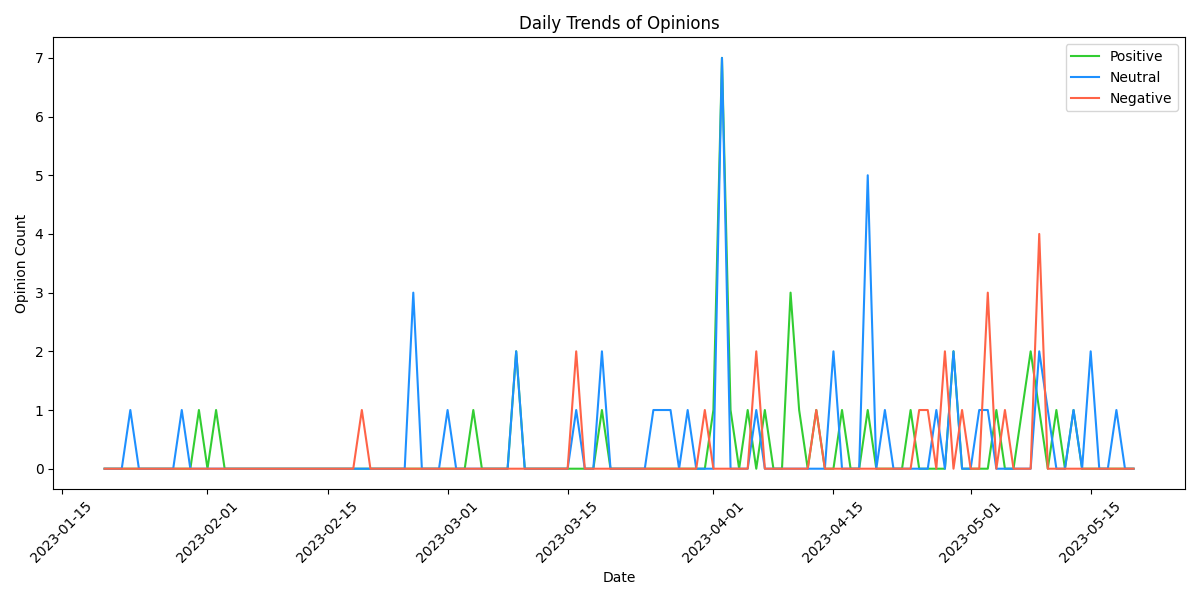
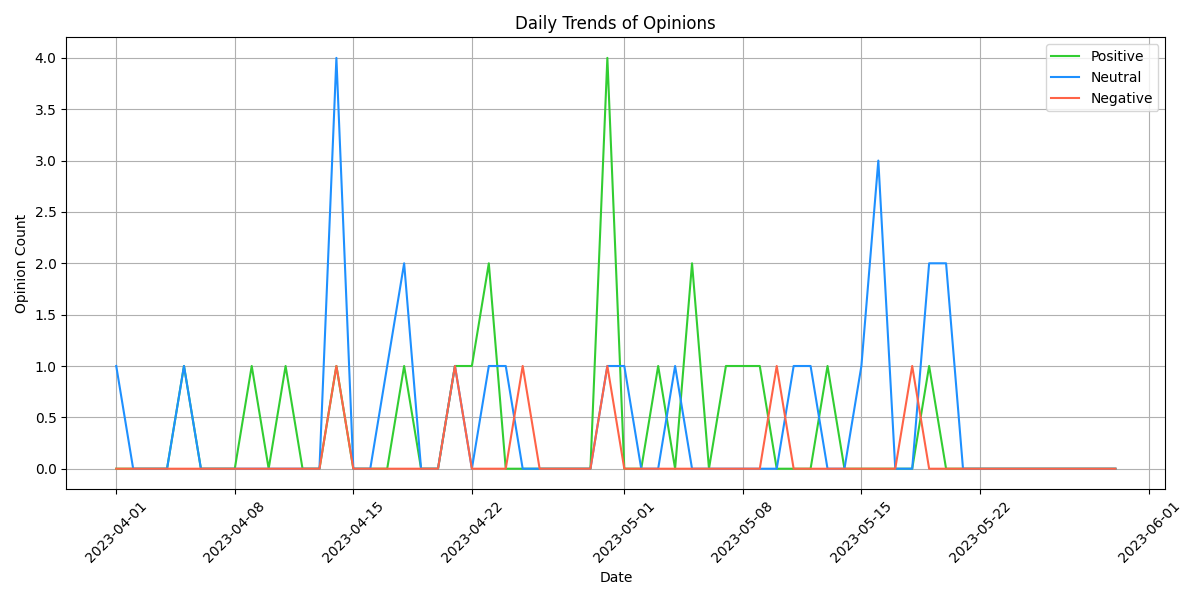
add wordcloud and english filter

diff --git a/opinionminer/templates/opinionminer/opinions.html b/opinionminer/templates/opinionminer/opinions.html
@@ -3,16 +3,18 @@
 {% load static %}
 
 {% block body_content %}
-    <nav class="navbar navbar-expand-lg navbar-light bg-light">
+    <body class="white-background" style="background-color: white; background-image: none">
+<!-- Navbar -->
+     <nav class="navbar navbar-expand-lg navbar-light bg-gradient-info">
         <div class="container-fluid">
-            <a class="navbar-brand" href="{% url 'home' %}">Opinion Miner</a>
+            <a class="navbar-brand" href="/">👁 Opinion Miner</a>
             <button class="navbar-toggler" type="button" data-bs-toggle="collapse" data-bs-target="#navbarNav" aria-controls="navbarNav" aria-expanded="false" aria-label="Toggle navigation">
                 <span class="navbar-toggler-icon"></span>
             </button>
             <div class="collapse navbar-collapse" id="navbarNav">
                 <ul class="navbar-nav">
                     <li class="nav-item">
-                        <a class="nav-link" href="{% url 'home' %}">Home</a>
+                        <a class="nav-link" href="#">Home</a>
                     </li>
                     <li class="nav-item">
                         <a class="nav-link" href="#">About</a>
@@ -31,19 +33,48 @@
                     <input type="text" name="query" id="query" class="form-control me-2" placeholder="Enter a query" required value="{{ topic }}">
                     <input type="date" name="start_date" id="start_date" class="form-control me-2" required>
                     <input type="date" name="end_date" id="end_date" class="form-control me-2" required>
-                    <button type="submit" class="btn btn-primary">Search</button>
+                    <button type="submit" class="btn btn-primary">Search</button>
                 </form>
             </div>
         </div>
         <br>
+        <hr>
         <!-- Trends section -->
+
         <div class="container mt-5">
-            <h2>Trends</h2>
-            <div id="opinion-trends">
+            <div class="row">
+                <div class="col-md-2">
+                    <h2>Trends 📊</h2>
+                </div>
+                <div class="col-md-2">
+                    <button id="toggle-trends" class="btn btn-primary">Toggle Trends</button>
+                </div>
+            </div>
+            <div id="opinion-trends" class="trends-section">
                 <img src="{% static 'opinionminer/trend_graph.png' %}" alt="Trend Graph">
             </div>
         </div>
+
         <br>
+        <hr>
+        <!-- Word Cloud section -->
+        <div class="container mt-5">
+            <h2>Word Cloud ☁</h2>
+            <div id="word-cloud">
+                <img src="{% static 'opinionminer/wordcloud.png' %}" alt="Word Cloud">
+            </div>
+        </div>
+
+        <br>
+        <hr>
+        <br>
+    <div class="container mt-5">
+        <div class="row">
+                <div class="col-md-2">
+                    <h2>Posts 🤔</h2>
+                </div>
+        </div>
+    </div>
         {% if opinions %}
             <div class="row">
                 {% for opinion in opinions %}
@@ -71,4 +102,18 @@
             <p>No opinions found for "{{ topic }}".</p>
         {% endif %}
     </div>
+
+    <script>
+        $(document).ready(function() {
+            // Hide the trends graph initially
+            $(".trends-graph").hide();
+
+            // Toggle the trends graph when the button is clicked
+            $("#toggle-trends").click(function() {
+                $(".trends-graph").toggle();
+            });
+        });
+    </script>
+
+    </body>
 {% endblock %}

diff --git a/opinionminer/templates/opinionminer/home.html b/opinionminer/templates/opinionminer/home.html
@@ -3,9 +3,9 @@
 {% block body_content %}
 
     <!-- Navbar -->
-    <nav class="navbar navbar-expand-lg navbar-light bg-light">
+     <nav class="navbar navbar-expand-lg navbar-light bg-gradient-info">
         <div class="container-fluid">
-            <a class="navbar-brand" href="#">Opinion Miner</a>
+            <a class="navbar-brand" href="/">👁 Opinion Miner</a>
             <button class="navbar-toggler" type="button" data-bs-toggle="collapse" data-bs-target="#navbarNav" aria-controls="navbarNav" aria-expanded="false" aria-label="Toggle navigation">
                 <span class="navbar-toggler-icon"></span>
             </button>
@@ -21,19 +21,22 @@
             </div>
         </div>
     </nav>
+    <br>
+    <br>
+    <br>
+    <br>
+    <br>
 
-    <!-- Welcome message -->
-    <div class="container my-5">
-        <div class="row">
-            <div class="col-md-6">
-                <h1>Welcome to Opinion Miner!</h1>
-                <p>Get insights on any topic by analyzing opinions from Reddit.</p>
-            </div>
-            <div class="col-md-6">
-
-            </div>
+<div class="container my-5">
+    <div class="row">
+        <div class="col-md-12 d-flex flex-column justify-content-center">
+            <h1 class="text-center">👁</h1>
+            <h1 class="text-center">Welcome to <strong>Opinion Miner</strong>!</h1>
+            <p class="text-center">Get insights on any topic by analyzing opinions from Reddit. </p>
         </div>
     </div>
+</div>
+
 
     <!-- Query form -->
     <div class="container my-5">
@@ -43,35 +46,10 @@
                     <input type="text" name="query" id="query" class="form-control me-2" placeholder="Enter a query" required>
                     <input type="date" name="start_date" id="start_date" class="form-control me-2" required>
                     <input type="date" name="end_date" id="end_date" class="form-control me-2" required>
-                    <button type="submit" class="btn btn-primary">Search</button>
+                    <button type="submit" class="btn btn-primary">Mine</button>
                 </form>
-            </div>
-        </div>
-    </div>
-
-    <!-- Top posts table -->
-    <div class="container my-5">
-        <div class="row justify-content-center">
-            <div class="col-md-8">
-                <h3>Top posts:</h3>
-                <table class="table">
-                    <thead>
-                        <tr>
-                            <th scope="col">#</th>
-                            <th scope="col">Title</th>
-                            <th scope="col">Score</th>
-                        </tr>
-                    </thead>
-                    <tbody>
-                        {% for post in top_posts %}
-                            <tr>
-                                <th scope="row">{{ forloop.counter }}</th>
-                                <td>{{ post.title }}</td>
-                                <td>{{ post.score }}</td>
-                            </tr>
-                        {% endfor %}
-                    </tbody>
-                </table>
+                <br>
+                <p class="text-center bottom-text">Just enter a query and see the feelings! <strong>E.g. bitcoin</strong> </p>
             </div>
         </div>
     </div>

diff --git a/opinionminer/templates/base.html b/opinionminer/templates/base.html
@@ -8,16 +8,35 @@
     <title>{% block title %}Opinion Miner 🧠{% endblock %}</title>
     <!-- CSS only -->
     <link href="https://cdn.jsdelivr.net/npm/bootstrap@5.2.3/dist/css/bootstrap.min.css" rel="stylesheet" integrity="sha384-rbsA2VBKQhggwzxH7pPCaAqO46MgnOM80zW1RWuH61DGLwZJEdK2Kadq2F9CUG65" crossorigin="anonymous">
+    <script src="https://code.jquery.com/jquery-3.6.0.min.js"></script>
 
     {% block cssFiles %}
+            <link rel="stylesheet" href="{% static 'opinionminer/css/style.css' %}">
     {% endblock %}
 
 </head>
 <body>
 
 {% block body_content %}
-
-
+    <!-- Navbar -->
+     <nav class="navbar navbar-expand-lg navbar-light bg-gradient-info">
+        <div class="container-fluid">
+            <a class="navbar-brand" href="/">👁 Opinion Miner</a>
+            <button class="navbar-toggler" type="button" data-bs-toggle="collapse" data-bs-target="#navbarNav" aria-controls="navbarNav" aria-expanded="false" aria-label="Toggle navigation">
+                <span class="navbar-toggler-icon"></span>
+            </button>
+            <div class="collapse navbar-collapse" id="navbarNav">
+                <ul class="navbar-nav">
+                    <li class="nav-item">
+                        <a class="nav-link" href="#">Home</a>
+                    </li>
+                    <li class="nav-item">
+                        <a class="nav-link" href="#">About</a>
+                    </li>
+                </ul>
+            </div>
+        </div>
+    </nav>
     <script src="https://cdn.jsdelivr.net/npm/bootstrap@5.2.2/dist/js/bootstrap.bundle.min.js" integrity="sha384-OERcA2EqjJCMA+/3y+gxIOqMEjwtxJY7qPCqsdltbNJuaOe923+mo//f6V8Qbsw3" crossorigin="anonymous"></script>
 {% endblock %}
 

diff --git a/opinionminer/static/opinionminer/css/style.css b/opinionminer/static/opinionminer/css/style.css
@@ -1,0 +1,33 @@
+/* style.css */
+body {
+    background-image: url('https://images.pexels.com/photos/1103970/pexels-photo-1103970.jpeg');
+    background-repeat: no-repeat;
+    background-size: cover;
+}
+
+
+.navbar-custom {
+    opacity: 0.5;
+}
+
+
+.bottom-text {
+    opacity: 0.5;
+}
+
+.white-background {
+    background-color: #ffffff;
+}
+
+
+.background {
+    position: fixed;
+    top: 0;
+    left: 0;
+    width: 100%;
+    height: 100%;
+    z-index: -1;
+    background-size: cover;
+    filter: opacity(0.3); /* Adjust the opacity as desired */
+    pointer-events: none;
+}

diff --git a/opinionminer/reddit_opinions.py b/opinionminer/reddit_opinions.py
@@ -3,6 +3,8 @@ import praw
 from textblob import TextBlob
 from .models import Opinion
 from datetime import datetime, timedelta
+from langdetect import detect
+
 
 # Creative_Intern7785
 
@@ -10,7 +12,6 @@ from datetime import datetime, timedelta
 reddit = praw.Reddit(client_id=client_id,
                      client_secret=secret_key,
                      user_agent='My first App for Opinion Mining')
-
 
 def get_sentiment(text):
     blob = TextBlob(text)
@@ -21,7 +22,6 @@ def get_sentiment(text):
         return 'negative'
     else:
         return 'neutral'
-
 
 def get_opinions(topic, start_date, end_date):
     opinions = []
@@ -35,12 +35,14 @@ def get_opinions(topic, start_date, end_date):
         # Check if the submission falls within the specified timeline
         submission_time = datetime.fromtimestamp(submission.created_utc)
         if start_time <= submission_time <= end_time:
-            sentiment = get_sentiment(submission.title + submission.selftext)
-            opinion = Opinion(title=submission.title, text=submission.selftext, sentiment=sentiment, date=submission_time.date())
-            opinions.append(opinion)
+            # Detect the language of the post
+            lang = detect(submission.title + submission.selftext)
+            if lang == 'en':
+                sentiment = get_sentiment(submission.title + submission.selftext)
+                opinion = Opinion(title=submission.title, text=submission.selftext, sentiment=sentiment, date=submission_time.date())
+                opinions.append(opinion)
 
     return opinions
-
 
 def get_sentiment_distribution(opinions):
     distribution = {

diff --git a/opinionminer/views.py b/opinionminer/views.py
@@ -9,14 +9,12 @@ import matplotlib
 matplotlib.use('Agg')
 import matplotlib.pyplot as plt
 import numpy as np
-
+from wordcloud import WordCloud
 
 
 def home_view(request):
     return render(request, 'opinionminer/home.html')
 
-
-import numpy as np
 
 def opinions_view(request):
     form = QueryForm(request.GET or None)
@@ -68,6 +66,7 @@ def opinions_view(request):
         plt.ylabel('Opinion Count')
         plt.title('Daily Trends of Opinions')
         plt.xticks(rotation=45)
+        plt.grid(True)
         plt.legend()
         plt.tight_layout()
 
@@ -76,6 +75,15 @@ def opinions_view(request):
         graph_path = 'opinionminer/static/opinionminer/trend_graph.png'
         plt.savefig(graph_path)
         plt.close()
+
+        # Generate word cloud data
+        text_data = ' '.join(opinion.text for opinion in opinions)
+        wordcloud = WordCloud(width=1200, height=400, background_color='white').generate(text_data)
+
+
+
+        wordcloud_path = 'opinionminer/static/opinionminer/wordcloud.png'
+        wordcloud.to_file(wordcloud_path)
 
         return render(request, 'opinionminer/opinions.html', {
             'opinions': opinions,
